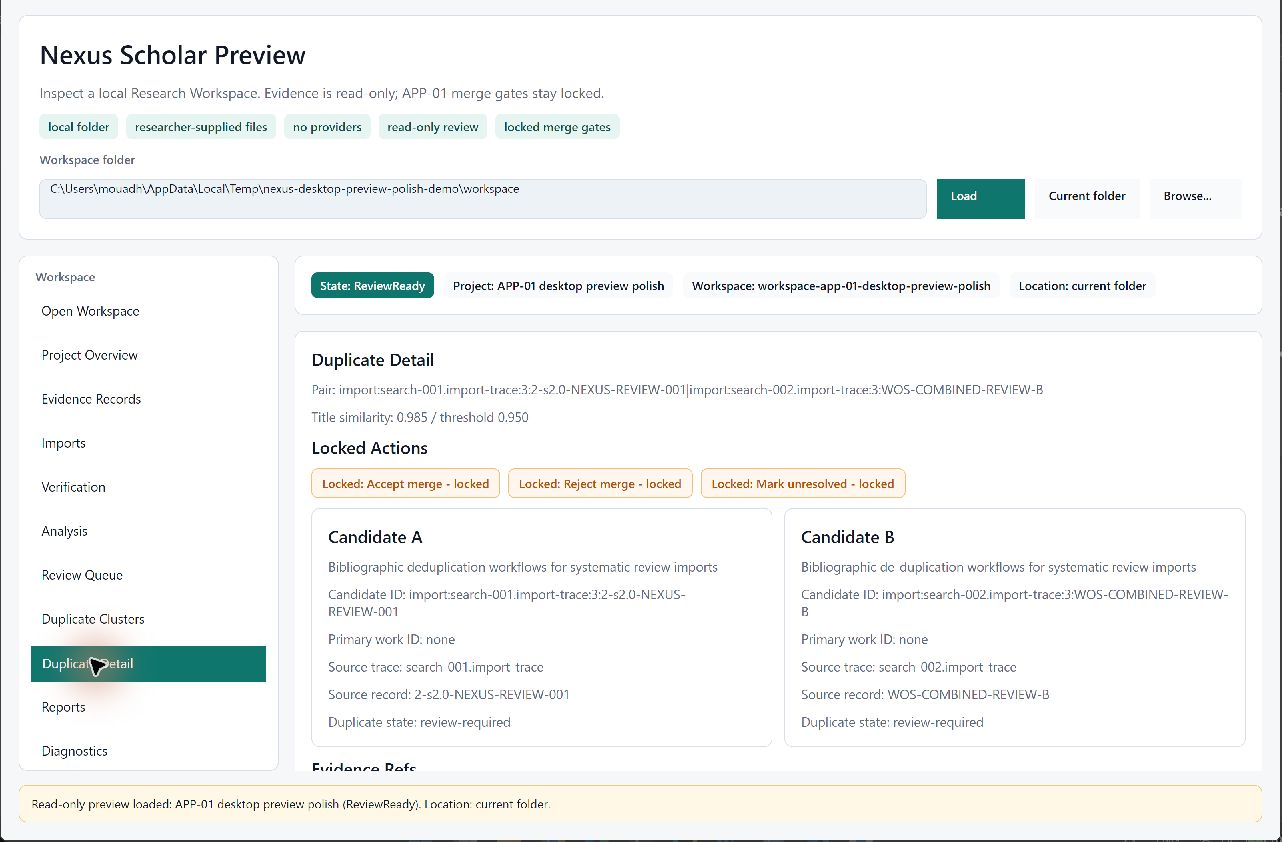
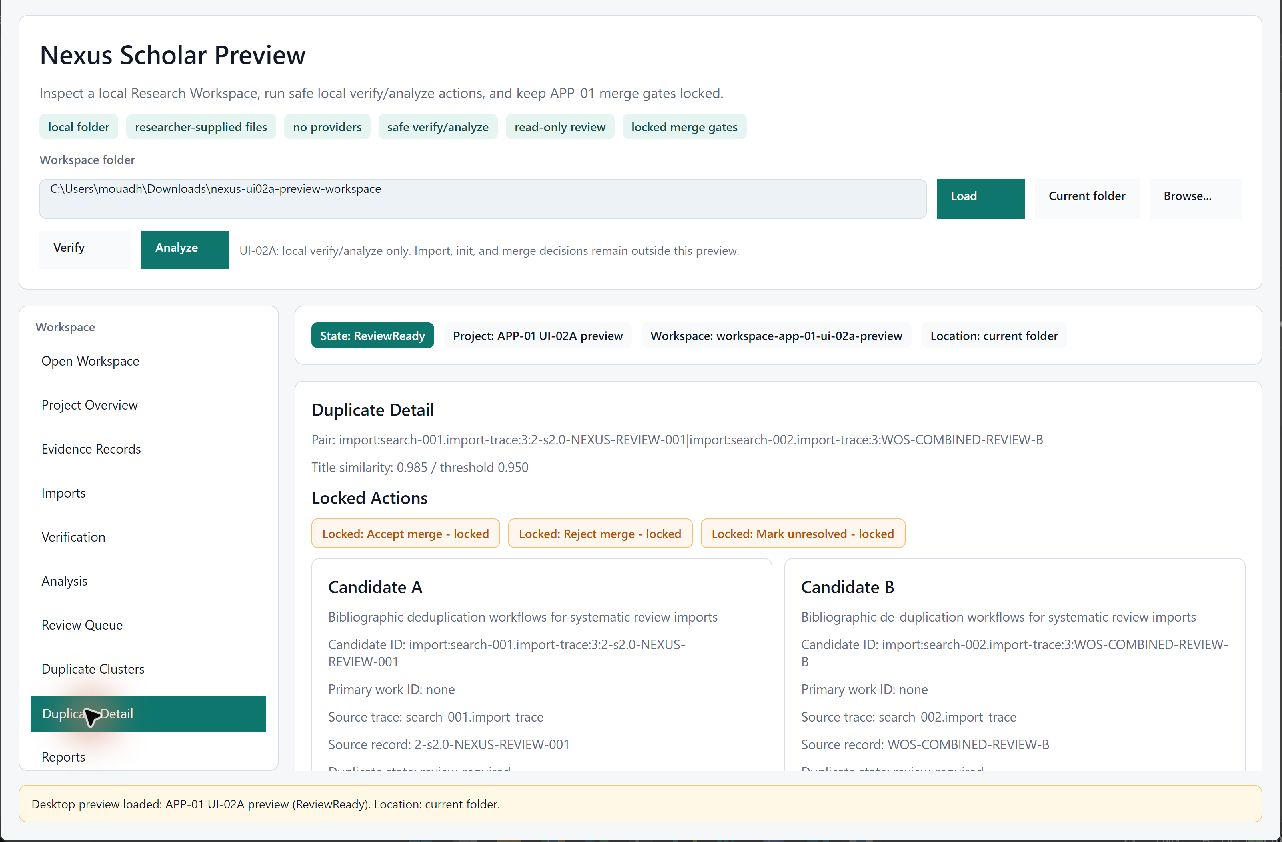
docs(site): refresh desktop preview for UI-02A
Refreshes public desktop preview screenshots and copy after UI-02A. Documents Verify/Analyze as safe local actions while preserving boundaries around init/import, providers, persistence/API/cloud, PDF/OCR, AI/model calls, product desktop shell behavior, PHP compatibility claims, and executable merge decisions.

diff --git a/tutorials/getting-started/index.html b/tutorials/getting-started/index.html
@@ -144,18 +144,18 @@ APP-01 action
 
         <section class="content-section" id="desktop-preview">
           <h2>6. Inspect the desktop preview</h2>
-          <p>After the local Research Workspace workflow has produced <code>.nexus-demo/workspace</code>, you can inspect the same generated local outputs in the read-only desktop preview.</p>
+          <p>After the local Research Workspace workflow has produced <code>.nexus-demo/workspace</code>, you can inspect the same generated local outputs in the desktop preview and run the safe local UI-02A actions.</p>
           <pre><code>dotnet run --project samples/NexusScholar.Desktop.Preview -- ".nexus-demo/workspace"</code></pre>
-          <p class="section-note">The desktop preview is a local read-only inspector. It does not run <code>init</code>, <code>import</code>, <code>verify</code>, <code>analyze</code>, accept/reject merge decisions, mark records unresolved, mutate Core records, call providers, or create a product desktop shell.</p>
+          <p class="section-note">The desktop preview can run local <code>Verify</code> and <code>Analyze</code> actions through shared ResearchWorkspace services. It does not run <code>init</code>, run <code>import</code>, accept/reject merge decisions, mark records unresolved, mutate Core records beyond existing generated-output writes, call providers, or create a product desktop shell.</p>
 
           <figure class="screenshot-frame">
             <img src="../../assets/img/desktop-preview-overview.png" alt="Nexus Scholar desktop preview overview showing review-ready workspace state and local output summaries." loading="lazy">
-            <figcaption>Overview screen with local project state, output presence, review summary, and next action guidance derived from generated workspace files.</figcaption>
+            <figcaption>Overview screen with local project state, generated output summaries, and the UI-02A <code>Verify</code> / <code>Analyze</code> buttons visible.</figcaption>
           </figure>
 
           <figure class="screenshot-frame">
-            <img src="../../assets/img/desktop-preview-evidence-records.png" alt="Nexus Scholar desktop preview evidence records tab showing local records and warning state." loading="lazy">
-            <figcaption>Evidence records tab. It helps testers inspect imported local records, warning state, and duplicate status without treating UI state as scientific authority.</figcaption>
+            <img src="../../assets/img/desktop-preview-verification-actions.png" alt="Nexus Scholar desktop preview verification tab showing local verification metrics and UI-02A action buttons." loading="lazy">
+            <figcaption>Verification tab after local workspace verification. The action surface stays limited to local verify/analyze; import and merge decisions remain outside the preview.</figcaption>
           </figure>
 
           <figure class="screenshot-frame">
@@ -176,7 +176,7 @@ APP-01 action
             <li>The Core contracts can be exercised without network access.</li>
             <li>The CLI can show environment policy, a small protocol/workflow/bundle path, deterministic import/dedup evidence, and a read-only local Research Workspace review queue.</li>
             <li>The sample host can render contract-shaped workspace blocks without giving the renderer Core authority.</li>
-            <li>The desktop preview can inspect generated local Research Workspace outputs through UI-friendly read models without executing workflow actions.</li>
+            <li>The desktop preview can inspect generated local Research Workspace outputs and run safe local verify/analyze actions without executing merge decisions.</li>
             <li>The project is ready for architecture, onboarding, methodology, and workflow-boundary feedback.</li>
           </ul>
         </section>
@@ -188,6 +188,7 @@ APP-01 action
             <li>It does not prove live provider access, provider SDK support, Scopus or Web of Science API support, or Google Scholar scraping.</li>
             <li>It does not prove HTTP download, paywall bypass, shadow-library behavior, PDF extraction, or OCR.</li>
             <li>It does not prove persistence, API, cloud sync, collaboration, or a product desktop shell.</li>
+            <li>It does not make the desktop preview an init/import wizard.</li>
             <li>It does not execute merge accept, reject, or mark-unresolved decisions from APP-01 blocks.</li>
             <li>It does not make the desktop preview a source of scientific authority.</li>
             <li>It does not prove PHP compatibility. That requires generated fixtures and semantic comparators.</li>

diff --git a/tutorials/index.html b/tutorials/index.html
@@ -27,7 +27,7 @@
     <div class="post-list">
       <article class="post-row">
         <h2><a href="getting-started/">Getting started with the Core workspace, local CLI workflow, and desktop preview</a></h2>
-        <p>Clone the repository, run validation, import generated local Search-export fixtures, analyze APP-01 evidence, inspect the read-only review queue and clusters, view the read-only desktop preview, then file first-tester feedback.</p>
+        <p>Clone the repository, run validation, import generated local Search-export fixtures, analyze APP-01 evidence, inspect the read-only review queue and clusters, view the desktop preview with safe local verify/analyze actions, then file first-tester feedback.</p>
       </article>
     </div>
   </main>